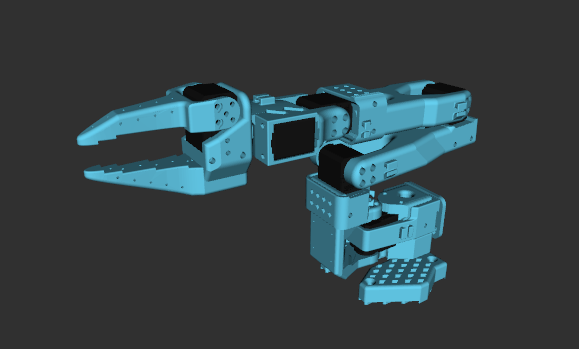
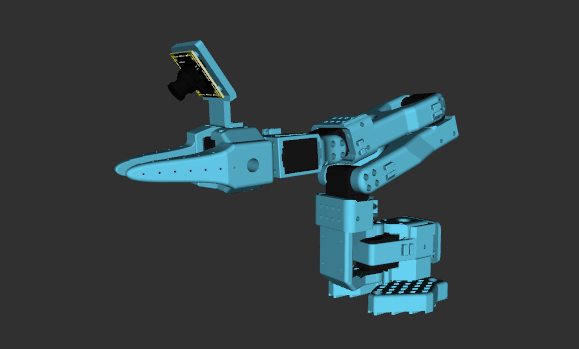
add SO101 arm

Changed region(s): [[0.1244, 0.1146, 0.8394, 0.9169]]

diff --git a/README.md b/README.md
@@ -16,7 +16,7 @@ I collect them from internet and repaint some of them, better visualization can 
 
 | Brand          | Model                                                         | Repaint | Images                                                                                                                                                                                                                                                              |
 |----------------|---------------------------------------------------------------|---------|---------------------------------------------------------------------------------------------------------------------------------------------------------------------------------------------------------------------------------------------------------------------|
-| TheRobotStudio | [SO-ARM](manipulator/TheRobotStudio/so_arm_description)       | No      | <img src="manipulator/.images/so101.png" width="200" height="150" style="object-fit: cover; object-position: center;">                                                                                                                                              |
+| TheRobotStudio | [SO-ARM](manipulator/TheRobotStudio/so_arm_description)       | Yes     | <img src="manipulator/.images/so101.png" width="200" height="150" style="object-fit: cover; object-position: center;">                                                                                                                                              |
 | Dobot          | [CR5](manipulator/Dobot/cr5_description)                      | Yes     | <img src="manipulator/.images/dobot_cr5.png" width="200" height="150" style="object-fit: cover; object-position: center;">     <img src="manipulator/.images/dobot_cr5_robotiq85.png" width="200" height="150" style="object-fit: cover; object-position: center;"> |
 | ARX            | [R5](manipulator/ARX/r5_description)                          | Yes     | <img src="manipulator/.images/arx_r5.png" width="200">                                                                                                                                                                                                              |
 | ARX            | [X5](manipulator/ARX/x5_description)                          | Yes     | <img src="manipulator/.images/arx_x5.png" width="200">                                                                                                                                                                                                              |

diff --git a/manipulator/TheRobotStudio/so_arm_description/README.md b/manipulator/TheRobotStudio/so_arm_description/README.md
@@ -1,5 +1,8 @@
 # SO Arm Description
 
+* camera support: [WowRobot](https://wowrobo.com/home)
+* camera model: [3dwhere](https://www.3dwhere.com/models/606v9dvz913o54jn)
+
 ## 1. Build
 ```bash
 cd ~/ros2_ws
